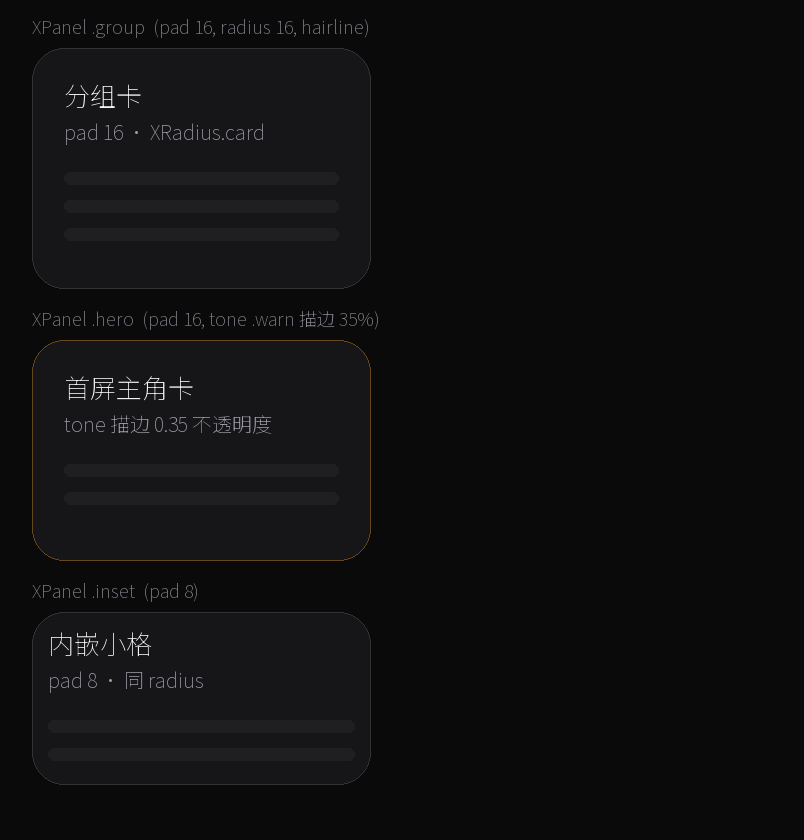
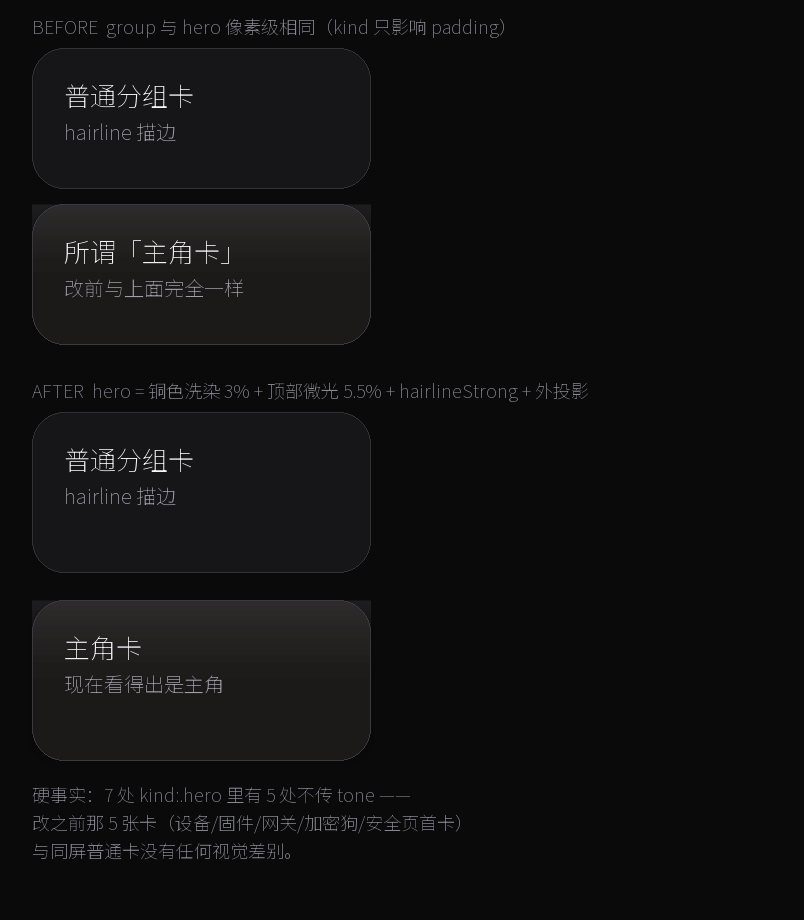
fix(design): kind:.hero 与 .group 像素级相同 —— 5 张主页面首卡从来没"主"过
发现过程: 查 XHeroCard 时注意到它的 body 写的是 `XPanel { content() }`,
默认 kind 是 .group, 不是 .hero。顺着查 XPanel 的实现:

  .group → pad = XSpace.card = 16
  .hero  → pad = XSpace.l    = 16      ← 相同
  overlay: tone==neutral ? hairline : tone.color.opacity(edge)
           → 默认 tone 也是 neutral, 也相同

也就是 .hero 与 .group 在默认参数下**没有任何像素差别**。
而全仓 7 处 kind:.hero 里有 5 处不传 tone ——
设备页 / 固件页 / 网关页 / 加密狗页 / 安全页 的首卡,
与同屏的普通分组卡渲染完全一致。所谓"主角卡"只是个名字。

修法 (XPanel 重写, 抽出 plate / edgeColor 两个计算属性):
  · hero 底: surface + 铜色洗染 3% + 顶部微光 5.5%
    洗染刻意压到 3% —— 这 5 张卡里 4 张是状态卡 (备份/网关/固件/安全),
    太重会跟它们自己的 warn/ok 语义色打架。
  · hero 描边: hairlineStrong (普通卡仍是 hairline)
  · hero 外投影: black 22% / radius 12 / y 4
    不同尺寸不同底色的卡并排时, 只靠描边分不出主次, 一点阴影就够了。

顺带修两个真缺陷:
1. XHeroCard 真的传 kind: .hero 了 (原来传的是默认值),
   并删掉从未生效也从未被传过的 flair 参数。
2. XBusyButton 忙碌切换原来是硬切 (图标"啪"消失、转圈"啪"出现),
   改成 ZStack + opacity 交叠淡入, 中间不会有一帧什么都没有。

渲染验证: docs/redesign/preview/panels.png (BEFORE/AFTER 对照)

闸门: 22/22 全绿。

diff --git a/App/Core/Components.swift b/App/Core/Components.swift
@@ -66,30 +66,59 @@ struct XPanel<Content: View>: View {
     var padding: CGFloat? = nil
     @ViewBuilder var content: () -> Content
 
+    private var pad: CGFloat {
+        if let padding { return padding }
+        return kind == .inset ? XSpace.s : XSpace.card
+    }
+
+    private var edgeColor: Color {
+        if tone != .neutral { return tone.color.opacity(XOpacity.edge) }
+        // hero 用更实的描边 —— 它要在同屏一堆 group 卡里第一个被看见
+        return kind == .hero ? XPalette.hairlineStrong : XPalette.hairline
+    }
+
     var body: some View {
-        Group {
-            if let padding {
-                content()
-                    .padding(padding)
-                    .frame(maxWidth: .infinity, alignment: .leading)
-                    .background(XPalette.surface,
-                                in: RoundedRectangle(cornerRadius: XRadius.card, style: .continuous))
-            } else {
-                // X 系统自带容器: 按档位给内边距, 统一 XRadius.card 圆角与 surface 底
-                // 三档 padding: inset 8 / group 16 / hero 16
-                // (hero 与 group 同 padding, 差别在描边宽度与色彩 —— 见 XPanel 的 overlay)
-                let pad: CGFloat = kind == .inset ? XSpace.s : XSpace.card
-                content()
-                    .padding(pad)
-                    .frame(maxWidth: .infinity, alignment: .leading)
-                    .background(XPalette.surface,
-                                in: RoundedRectangle(cornerRadius: XRadius.card, style: .continuous))
-            }
+        content()
+            .padding(pad)
+            .frame(maxWidth: .infinity, alignment: .leading)
+            .background(plate)
+            .overlay(
+                RoundedRectangle(cornerRadius: XRadius.card, style: .continuous)
+                    .strokeBorder(edgeColor, lineWidth: 1)
+            )
+            // hero 额外一层极轻的外投影: 不同尺寸/不同底色的卡并排时,
+            // 光靠描边分不出主次, 一点阴影就够了。
+            .shadow(color: kind == .hero ? Color.black.opacity(0.22) : .clear,
+                    radius: kind == .hero ? 12 : 0,
+                    y: kind == .hero ? 4 : 0)
+    }
+
+    /// 卡片底: group/inset 是纯 surface; hero 多一层顶部微光。
+    ///
+    /// 为什么 hero 需要这一层:  5 个主页面 (设备/固件/网关/加密狗/安全) 的
+    /// 首卡都是 kind: .hero 且不传 tone —— 改之前它们与普通 .group 卡
+    /// **像素级完全相同**, 所谓"主角卡"只是个名字。
+    @ViewBuilder
+    private var plate: some View {
+        let shape = RoundedRectangle(cornerRadius: XRadius.card, style: .continuous)
+        if kind == .hero {
+            shape
+                .fill(XPalette.surface)
+                // ① 品牌色微洗染: 让 hero 与普通卡"同一块底但不同温度"。
+                //    3% 是刻意压低的 —— 这 5 张卡里有 4 张是状态卡 (备份/网关/固件/安全),
+                //    洗染太重会跟它们自己的 warn/ok 语义色打架。
+                .overlay(shape.fill(XPalette.accent.opacity(0.030)))
+                // ② 顶部微光: 给一层"光从上面来"的体积感
+                .overlay(
+                    shape.fill(
+                        LinearGradient(
+                            colors: [XPalette.specular.opacity(0.055), .clear],
+                            startPoint: .top, endPoint: .bottom)
+                    )
+                )
+        } else {
+            shape.fill(XPalette.surface)
         }
-        .overlay(
-            RoundedRectangle(cornerRadius: XRadius.card, style: .continuous)
-                .strokeBorder(tone == .neutral ? XPalette.hairline : tone.color.opacity(XOpacity.edge), lineWidth: 1)
-        )
     }
 }
 
@@ -307,13 +336,24 @@ struct XBusyButton: View {
     var body: some View {
         Button(action: action) {
             HStack(spacing: XSpace.s) {
-                if busy {
-                    ProgressView().controlSize(.small)
+                // 状态位: 忙碌时转圈, 空闲时显示图标。
+                // 原来两态是硬切 —— 点下去图标"啪"地消失、转圈"啪"地出现。
+                // ZStack + opacity 让两者交叠淡入淡出, 中间不会有一帧什么都没有。
+                ZStack {
+                    if let systemImage {
+                        Image(systemName: systemImage)
+                            .opacity(busy ? 0 : 1)
+                    }
+                    ProgressView()
+                        .controlSize(.small)
                         .tint(style == .primary ? XPalette.onAccent : XPalette.accentText)
-                } else if let systemImage {
-                    Image(systemName: systemImage)
+                        .opacity(busy ? 1 : 0)
                 }
+                .frame(width: 20, height: 20)
+                .animation(XMotion.quick, value: busy)
+
                 Text(title)
+                    .contentTransition(.opacity)
             }
         }
         .buttonStyle(AnyButtonStyle(style))
@@ -421,12 +461,17 @@ struct XRow: View {
 // ═══════════════════════════════════════════════════════════
 
 /// 旧 HeroCard 的替代 —— 新设计里不再有"英雄卡", 用 Panel 替代
+/// 首屏主角卡 —— 就是 XPanel(kind: .hero) 的语义别名。
+///
+/// 修: 原来 body 写的是 `XPanel { content() }` (默认 kind: .group),
+/// 而 .hero 在当时与 .group 像素级相同 —— 所以这个类型一直是个空壳。
+/// 现在两个问题都修了: XPanel 的 .hero 有独立视觉, 这里也真的传 .hero。
+/// 同时删掉从未被使用也从未生效的 `flair` 参数。
 struct XHeroCard<Content: View>: View {
-    var flair: Bool = false
     @ViewBuilder var content: () -> Content
 
     var body: some View {
-        XPanel { content() }
+        XPanel(kind: .hero) { content() }
     }
 }
 

diff --git a/tools/preview.py b/tools/preview.py
@@ -39,7 +39,8 @@ CANVAS      = (10, 10, 11)
 SURFACE     = (22, 22, 24)
 SURFACE_ALT = (31, 31, 34)
 SUNKEN      = (18, 18, 20)
-HAIRLINE    = (50, 50, 54)
+HAIRLINE    = (50, 50, 54)   # XPalette.hairline dark 0x323236
+HAIRSTRONG  = (58, 58, 64)   # XPalette.hairlineStrong dark 0x3A3A40
 TEXT        = (245, 245, 247)
 TEXT_SUB    = (160, 160, 172)
 TEXT_TERT   = (136, 136, 146)
@@ -569,39 +570,56 @@ def render_buttons():
     return save(img, "buttons")
 
 def render_panels():
-    """XPanel — 三档 (group / hero / inset) + tone 描边"""
-    W, H = 402, 420
+    """XPanel — group vs hero (改前像素相同 / 改后有区分)"""
+    W, H = 402, 460
     img = new_canvas(W, H)
     dr = ImageDraw.Draw(img, "RGBA")
 
-    def panel(y, h, kind, tone=None, title="", sub=""):
-        pad = S(8) if kind == "inset" else (S(16) if kind == "hero" else S(16))
-        x0, x1 = S(16), W-S(16)
+    def plate(x0, y, w, h, kind, tone=None, label="", sub=""):
         r = S(16)
-        dr.rounded_rectangle([x0, y, x1, y+h], r, fill=SURFACE+(255,))
-        edge = HAIRLINE if tone is None else tone
-        alpha = 255 if tone is None else 89
-        dr.rounded_rectangle([x0, y, x1, y+h], r, outline=edge + (alpha,), width=1)
-        if title:
-            text(dr, (x0+pad, y+pad), title, 13)
-        if sub:
-            text(dr, (x0+pad, y+pad+S(20)), sub, 10, TEXT_SUB)
-        # 内容示意线
-        cy = y + pad + S(46)
-        while cy < y+h-pad-S(8):
-            dr.rounded_rectangle([x0+pad, cy, x1-pad, cy+S(6)], S(3), fill=SURFACE_ALT+(255,))
-            cy += S(14)
+        # 底
+        dr.rounded_rectangle([x0, y, x0+w, y+h], r, fill=SURFACE+(255,))
+        if kind == "hero":
+            # ① 品牌色微洗染 3%
+            dr.rounded_rectangle([x0, y, x0+w, y+h], r, fill=ACCENT+(8,))
+            # ② 顶部微光 (specular 5.5% → clear)
+            for i in range(int(h*0.55)):
+                a = int(0.055 * 255 * (1 - i/(h*0.55))**1.3)
+                if a <= 0: break
+                dr.rounded_rectangle([x0, y+i, x0+w, y+i+1], 0, fill=SPECULAR+(a,))
+            dr.rounded_rectangle([x0, y, x0+w, y+h], r, outline=HAIRSTRONG+(255,), width=1)
+        else:
+            edge = HAIRLINE if tone is None else tone
+            alpha = 255 if tone is None else 89
+            dr.rounded_rectangle([x0, y, x0+w, y+h], r, outline=edge+(alpha,), width=1)
+        pad = S(16)
+        if label: text(dr, (x0+pad, y+pad), label, 13)
+        if sub:   text(dr, (x0+pad, y+pad+S(20)), sub, 10, TEXT_SUB)
 
-    text(dr, (S(16), S(8)), "XPanel .group  (pad 16, radius 16, hairline)", 9, TEXT_TERT)
-    panel(S(24), S(120), "group", None, "分组卡", "pad 16 · XRadius.card")
+    # BEFORE: 两者完全相同
+    text(dr, (S(16), S(8)), "BEFORE  group 与 hero 像素级相同（kind 只影响 padding）", 9, TEXT_TERT)
+    plate(S(16), S(24),  W-S(32), S(70), "group", None, "普通分组卡", "hairline 描边")
+    plate(S(16), S(102), W-S(32), S(70), "hero",  None, "所谓「主角卡」", "改前与上面完全一样")
 
-    text(dr, (S(16), S(154)), "XPanel .hero  (pad 16, tone .warn 描边 35%)", 9, TEXT_TERT)
-    panel(S(170), S(110), "hero", WARN, "首屏主角卡", "tone 描边 0.35 不透明度")
-
-    text(dr, (S(16), S(290)), "XPanel .inset  (pad 8)", 9, TEXT_TERT)
-    panel(S(306), S(86), "inset", None, "内嵌小格", "pad 8 · 同 radius")
+    # AFTER: hero 有顶部微光 + hairlineStrong + 外投影
+    text(dr, (S(16), S(190)), "AFTER  hero = 铜色洗染 3% + 顶部微光 5.5% + hairlineStrong + 外投影", 9, TEXT_TERT)
+    plate(S(16), S(206), W-S(32), S(80), "group", None, "普通分组卡", "hairline 描边")
+    # hero with shadow
+    sh = Image.new('RGBA', img.size, (0,0,0,0))
+    sd = ImageDraw.Draw(sh)
+    for i in range(S(12), 0, -1):
+        a = int(0.22 * 255 * (1 - i/S(12))**1.8 * 0.35)
+        sd.rounded_rectangle([S(16)-i, S(300)-i+4, W-S(16)+i, S(300)+S(80)+i+4], S(16), fill=(0,0,0,a))
+    img2 = Image.alpha_composite(img.convert('RGBA'), sh).convert('RGB')
+    img.paste(img2, (0,0))
+    dr = ImageDraw.Draw(img, "RGBA")
+    plate(S(16), S(300), W-S(32), S(80), "hero", None, "主角卡", "现在看得出是主角")
+    text(dr, (S(16), S(392)), "硬事实：7 处 kind:.hero 里有 5 处不传 tone ——", 9, TEXT_TERT)
+    text(dr, (S(16), S(406)), "改之前那 5 张卡（设备/固件/网关/加密狗/安全页首卡）", 9, TEXT_TERT)
+    text(dr, (S(16), S(420)), "与同屏普通卡没有任何视觉差别。", 9, TEXT_TERT)
 
     return save(img, "panels")
+
 
 RENDERERS = {
     "codering": render_code_ring,
